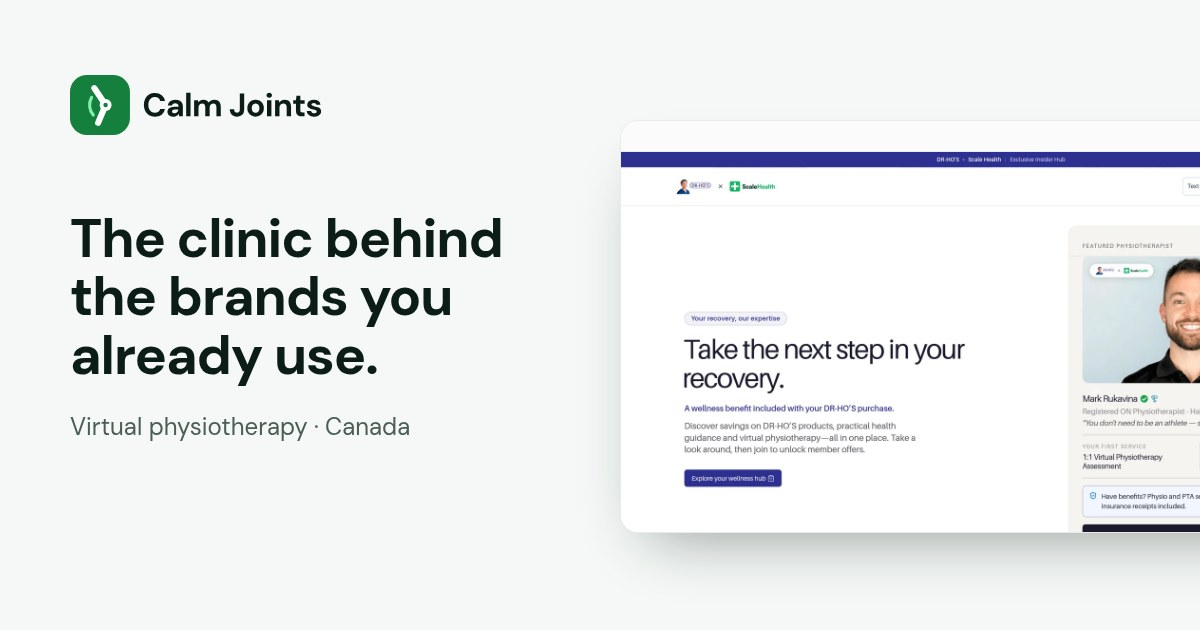
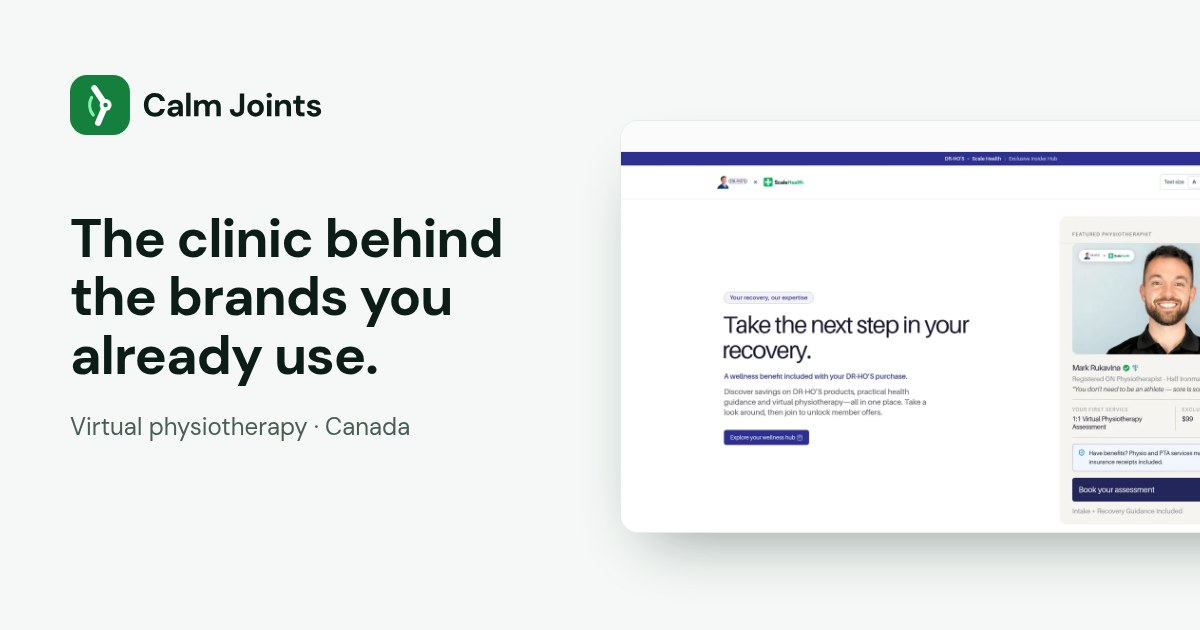
Carousel: zoomed-out full-page hub captures (1920 wide), no cropping (#8)

Changed region(s): [[0.555, 0.4524, 0.8017, 0.7841], [0.8942, 0.3619, 1.0, 0.8444], [0.5242, 0.2413, 1.0, 0.3016]]

diff --git a/index.html b/index.html
@@ -74,7 +74,7 @@
   .frame { border: 1px solid var(--line); border-radius: 16px; overflow: hidden; background: #fff; box-shadow: 0 30px 60px -38px rgba(11,29,22,.45); }
   .bar { display: flex; gap: 6px; padding: 10px 14px; border-bottom: 1px solid var(--line); background: #FAFBFA; }
   .bar i { width: 9px; height: 9px; border-radius: 50%; background: #DCE3DF; }
-  .frame img { width: 100%; height: auto; aspect-ratio: 2 / 1; object-fit: cover; object-position: top center; background: #F6F4F0; }
+  .frame img { width: 100%; height: auto; aspect-ratio: 2 / 1; object-fit: contain; object-position: center; background: #F6F4F0; }
   .cap { display: flex; flex-wrap: wrap; align-items: center; gap: .3rem .6rem; padding: 1rem .25rem 0; }
   .cap strong { font-size: 1.15rem; }
   .cap p { flex-basis: 100%; margin: 0; color: var(--mute); font-size: .95rem; }
@@ -181,15 +181,15 @@
     <div class="carousel" aria-roledescription="carousel" aria-label="Brand hubs we run care for">
       <div class="track" id="track" tabindex="0">
         <a class="slide" href="https://www.scalehealth.ca/dr-ho" target="_blank" rel="noopener noreferrer" aria-label="DR-HO’S, opens their hub">
-          <div class="frame"><div class="bar"><i></i><i></i><i></i></div><img src="/media/hubs/dr-ho.webp" width="1600" height="800" alt="DR-HO’S hub page with a featured physiotherapist" decoding="async"></div>
+          <div class="frame"><div class="bar"><i></i><i></i><i></i></div><img src="/media/hubs/dr-ho-v2.webp" width="1600" height="800" alt="DR-HO’S hub page with a featured physiotherapist" decoding="async"></div>
           <div class="cap"><strong>DR-HO’S</strong><span class="tag live">Live</span></div>
         </a>
         <a class="slide" href="https://www.scalehealth.ca/jillhealth" target="_blank" rel="noopener noreferrer" aria-label="Jill Health, opens their hub">
-          <div class="frame"><div class="bar"><i></i><i></i><i></i></div><img src="/media/hubs/jill-health.webp" width="1600" height="800" alt="Jill Health hub page" decoding="async" loading="lazy"></div>
+          <div class="frame"><div class="bar"><i></i><i></i><i></i></div><img src="/media/hubs/jill-health-v2.webp" width="1600" height="800" alt="Jill Health hub page" decoding="async" loading="lazy"></div>
           <div class="cap"><strong>Jill Health</strong><span class="tag">Launching</span></div>
         </a>
         <a class="slide" href="https://www.scalehealth.ca/jackhealth" target="_blank" rel="noopener noreferrer" aria-label="Jack Health, opens their hub">
-          <div class="frame"><div class="bar"><i></i><i></i><i></i></div><img src="/media/hubs/jack-health.webp" width="1600" height="800" alt="Jack Health hub page" decoding="async" loading="lazy"></div>
+          <div class="frame"><div class="bar"><i></i><i></i><i></i></div><img src="/media/hubs/jack-health-v2.webp" width="1600" height="800" alt="Jack Health hub page" decoding="async" loading="lazy"></div>
           <div class="cap"><strong>Jack Health</strong><span class="tag">Launching</span></div>
         </a>
       </div>
